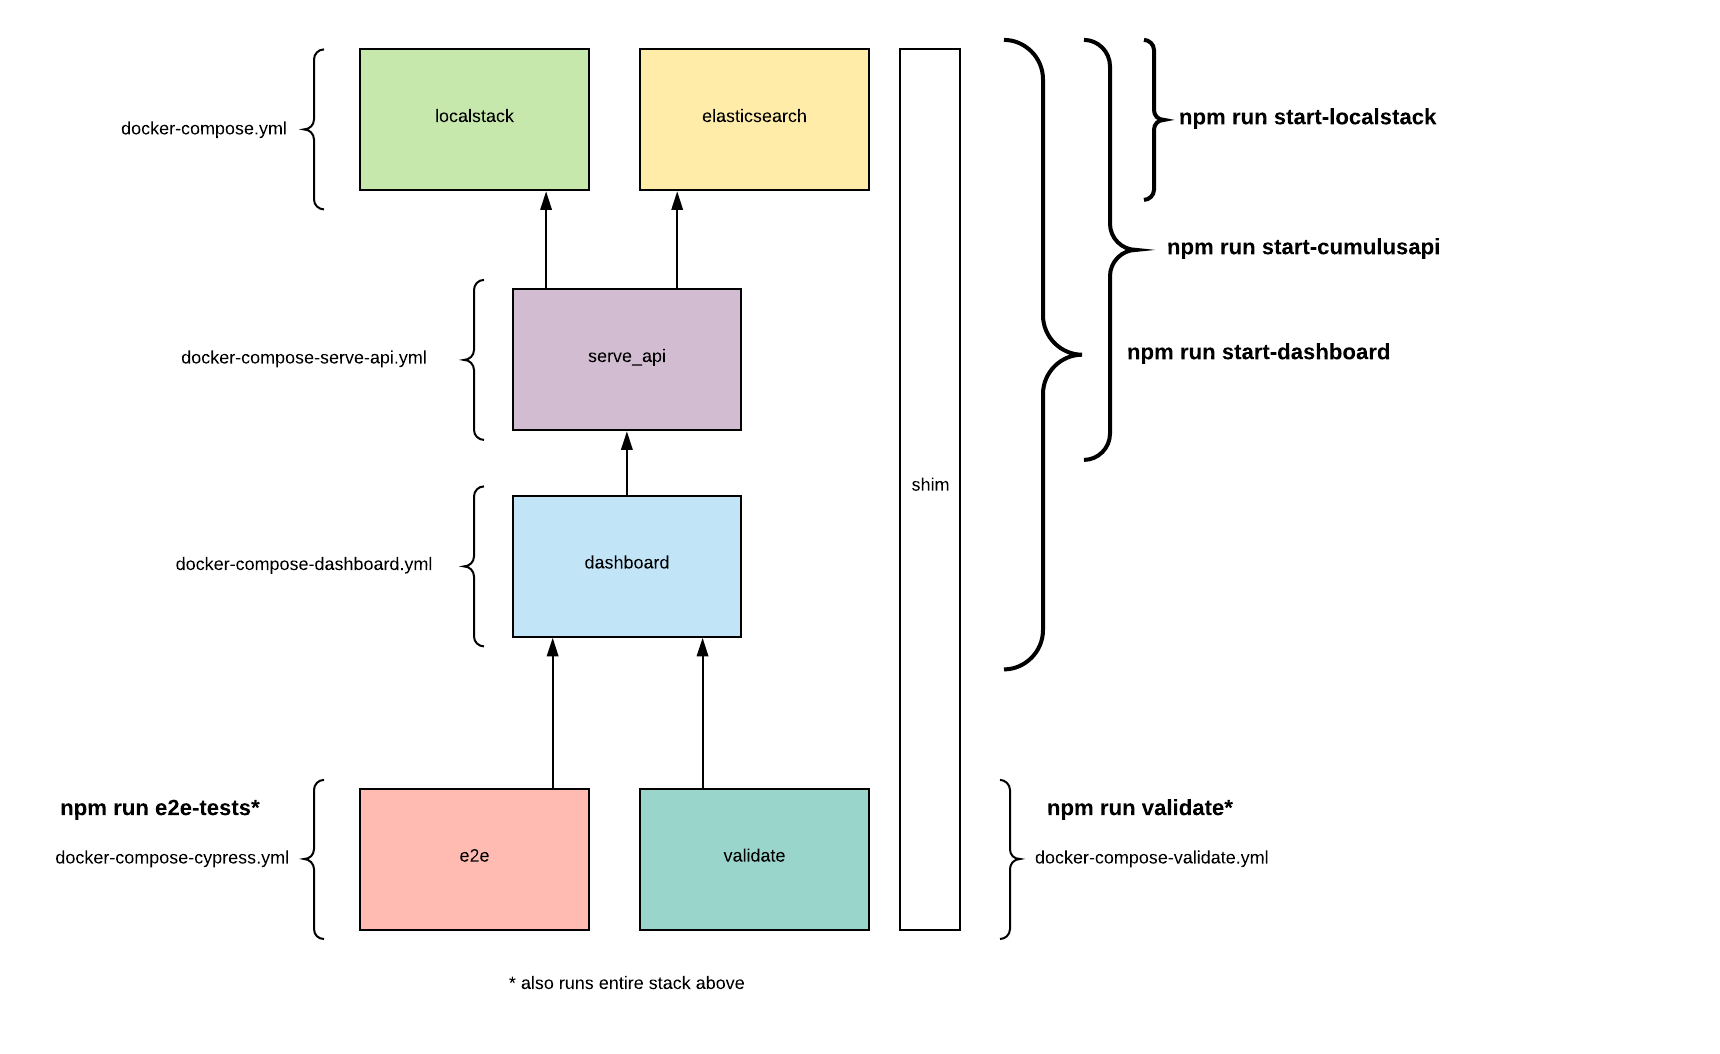
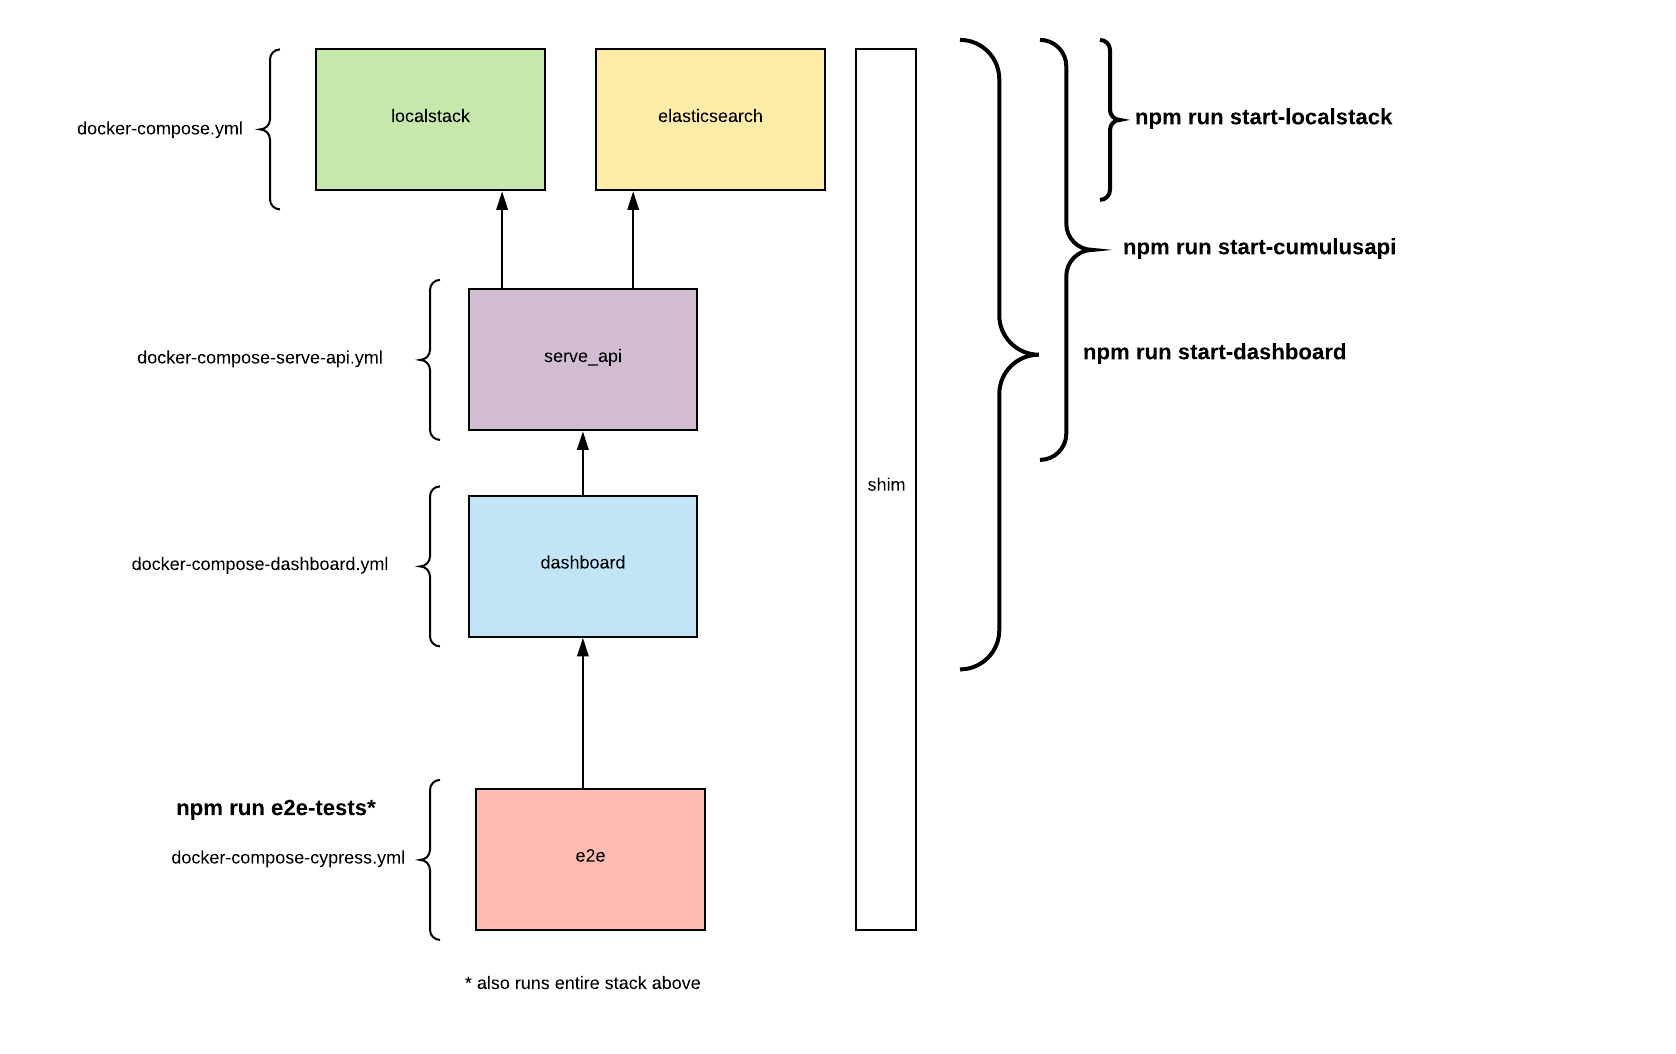
Removes Validation Tests from the dashboard.
These are really designed to test how the dashboard is deployed and is not part
of the dashboard features.  They tested against grunt and docker/nginx.  They
started failing when we added a proxy redirect to serve the app like it is
served in CI using http-serve.

diff --git a/CHANGELOG.md b/CHANGELOG.md
@@ -7,6 +7,10 @@ and this project adheres to [Semantic Versioning](http://semver.org/spec/v2.0.0.
 
 ## [Unreleased]
 
+### Fixed
+- **CUMULUS-2242** and **CUMULUS-2177**
+  - building with `npm run build` will now build a distribution that can be served from behind cloudfront.
+
 ### Added
 
 - **CUMULUS-2091**
@@ -23,10 +27,14 @@ and this project adheres to [Semantic Versioning](http://semver.org/spec/v2.0.0.
   - Code changes to allow for private CMR collections to have links to the MMT.
 - **CUMULUS-2215**
   - Omits unnecesary statistics request when building the option list of collection names on the granules page.
-
-
 - **CUMULUS-2171**
   - Allows filtering of the Granule Inventory List CSV download based on Granule IDs, Status, and Collection.
+- **CUMULUS-2242**
+  - Moves cypress testing to run against production build in CI.
+
+### Removed
+ -**CUMULUS-2242**
+   - Removes unnecessary validation tests.
 
 ## [v2.0.0]
 

diff --git a/README.md b/README.md
@@ -171,11 +171,6 @@ You can run all of the cypress tests locally that circleCI runs with a single co
 ```
 This will stands up the entire stack as well as begin the e2e service that will run all cypress commands and report an exit code for their success or failure.  This is primarily used for CircleCI, but can be useful to developers.
 
-Likewise the validation tests can be run with this command:
-```bash
-  $ npm run validation-tests
-```
-
 
 #### <a name=dockerdiagram></a> Docker Container Service Diagram.
 ![Docker Service Diagram](./ancillary/DashboardDockerServices.png)
@@ -289,7 +284,6 @@ This brings up LocalStack, Elasticsearch, the Cumulus localAPI, and the dashboar
 
 Run the test suite (yet another terminal window)
 ```bash
-  $ npm run validate
   $ npm run cypress
 ```
 
